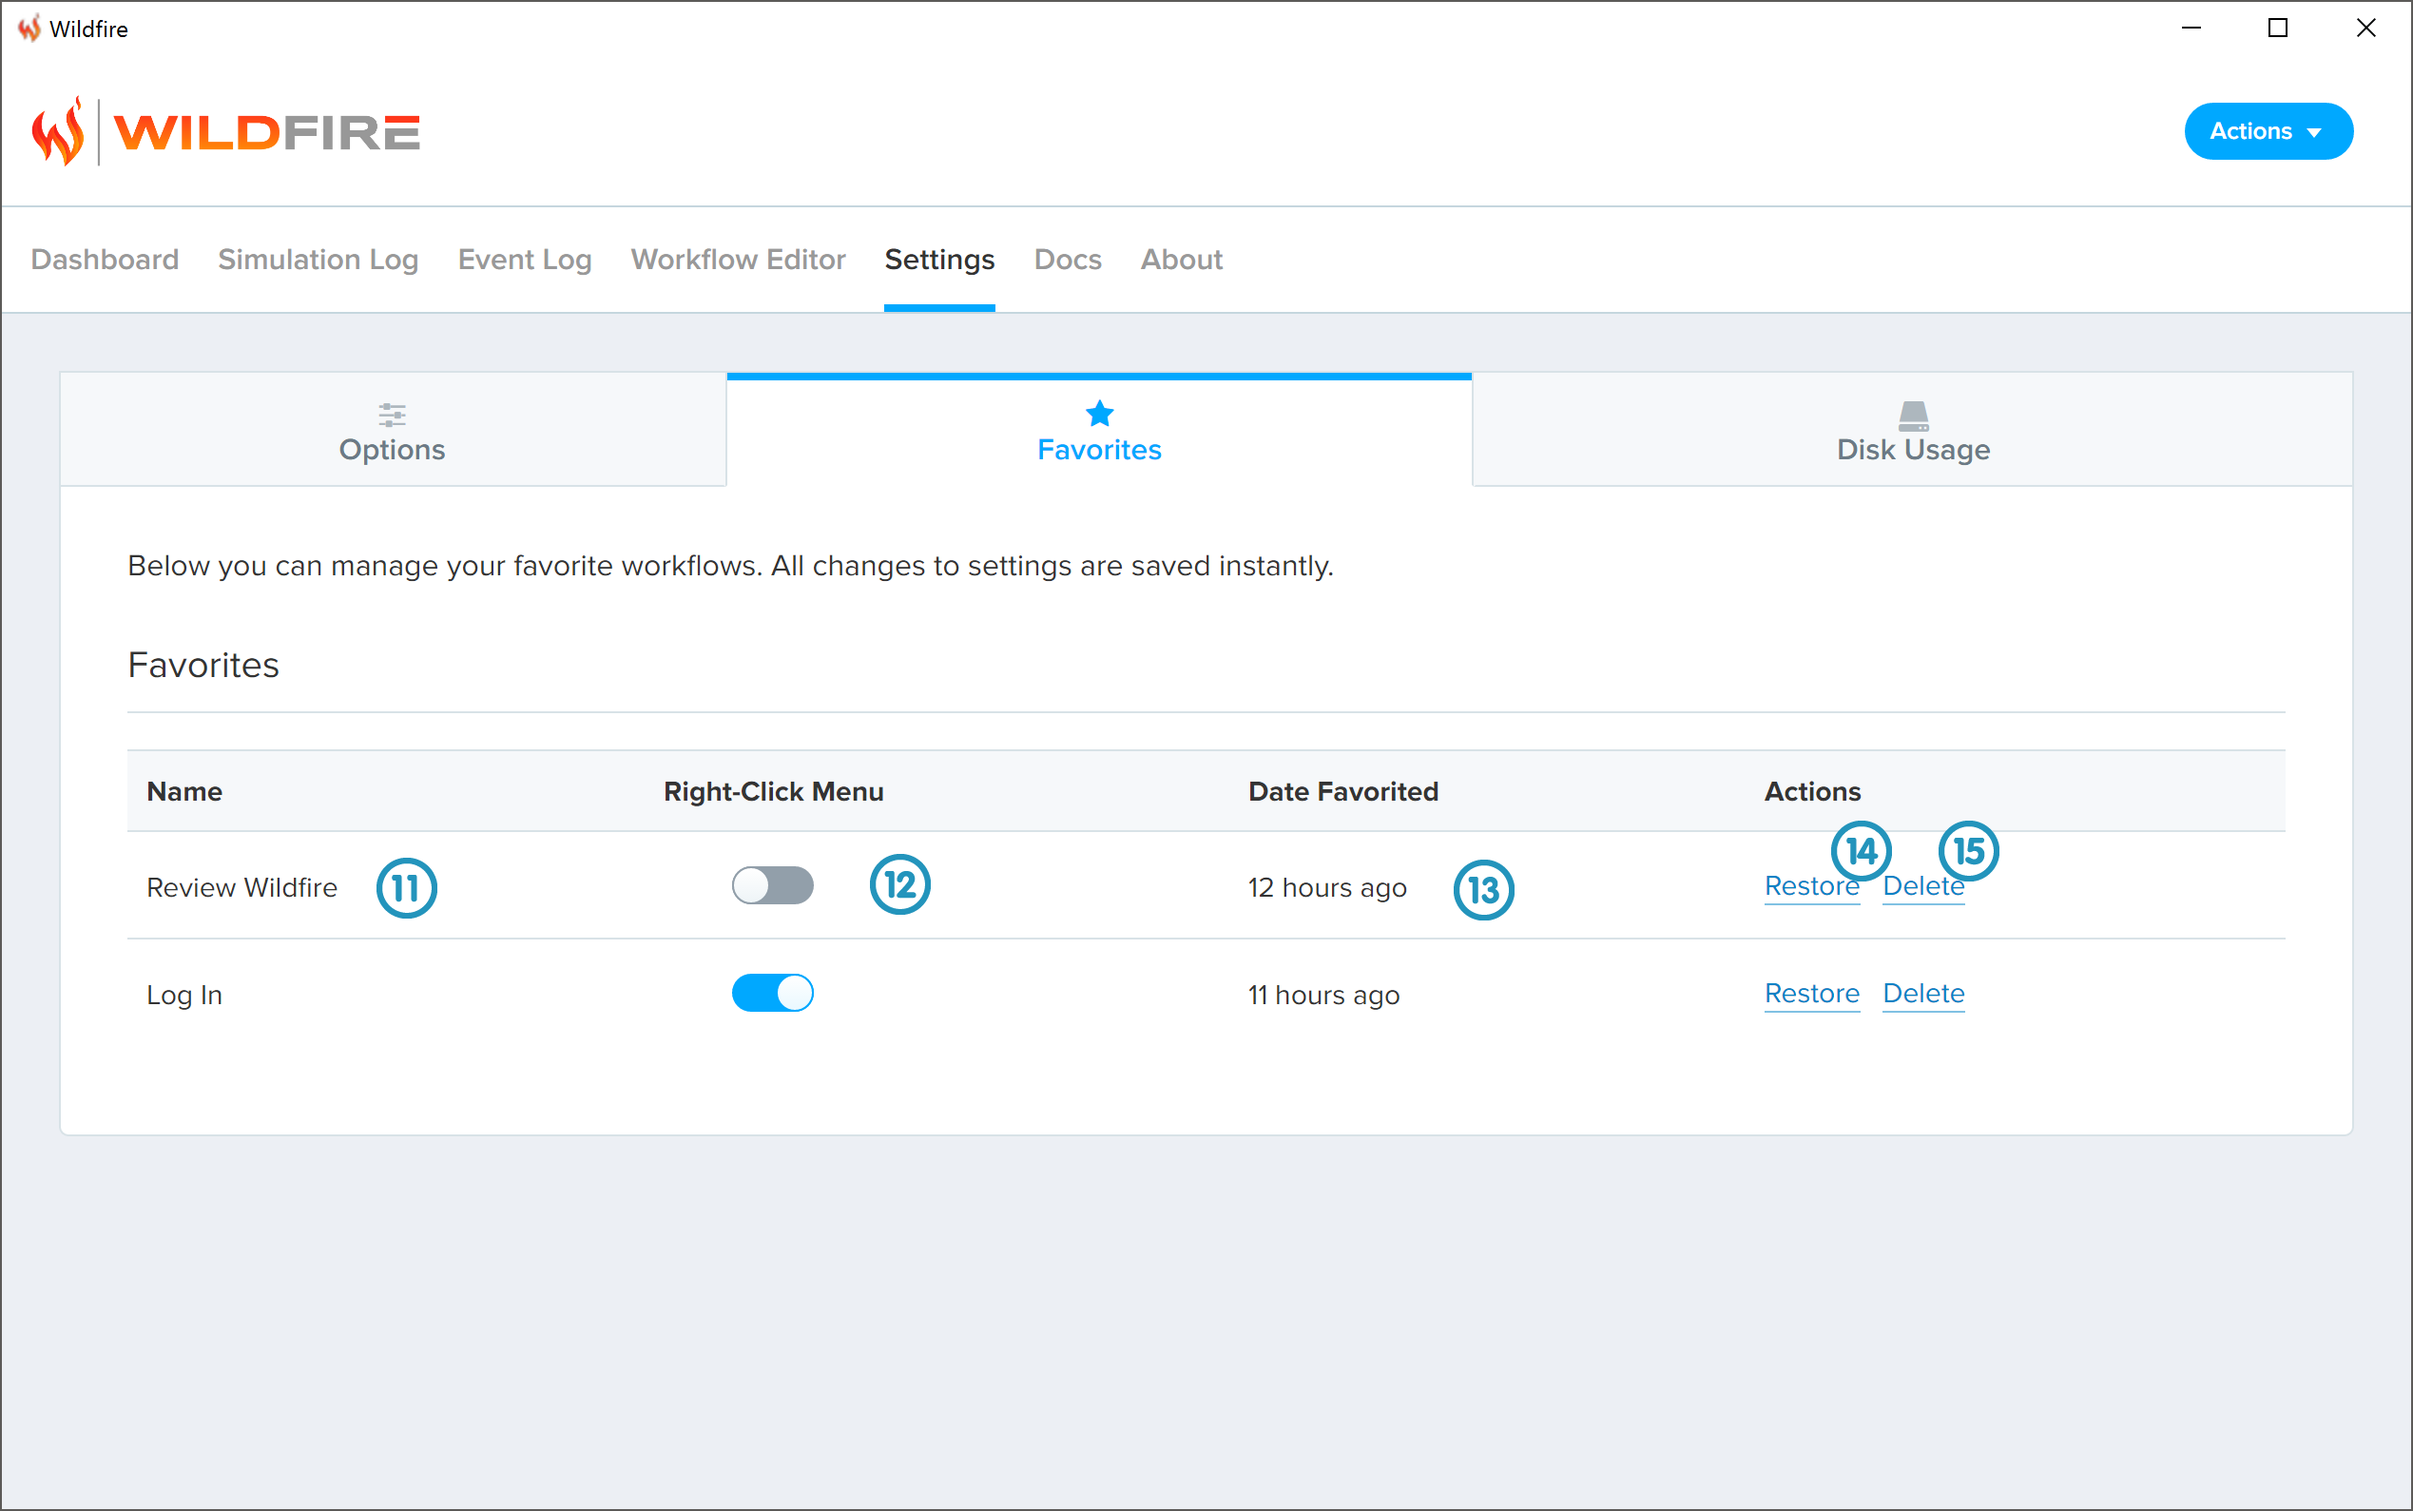
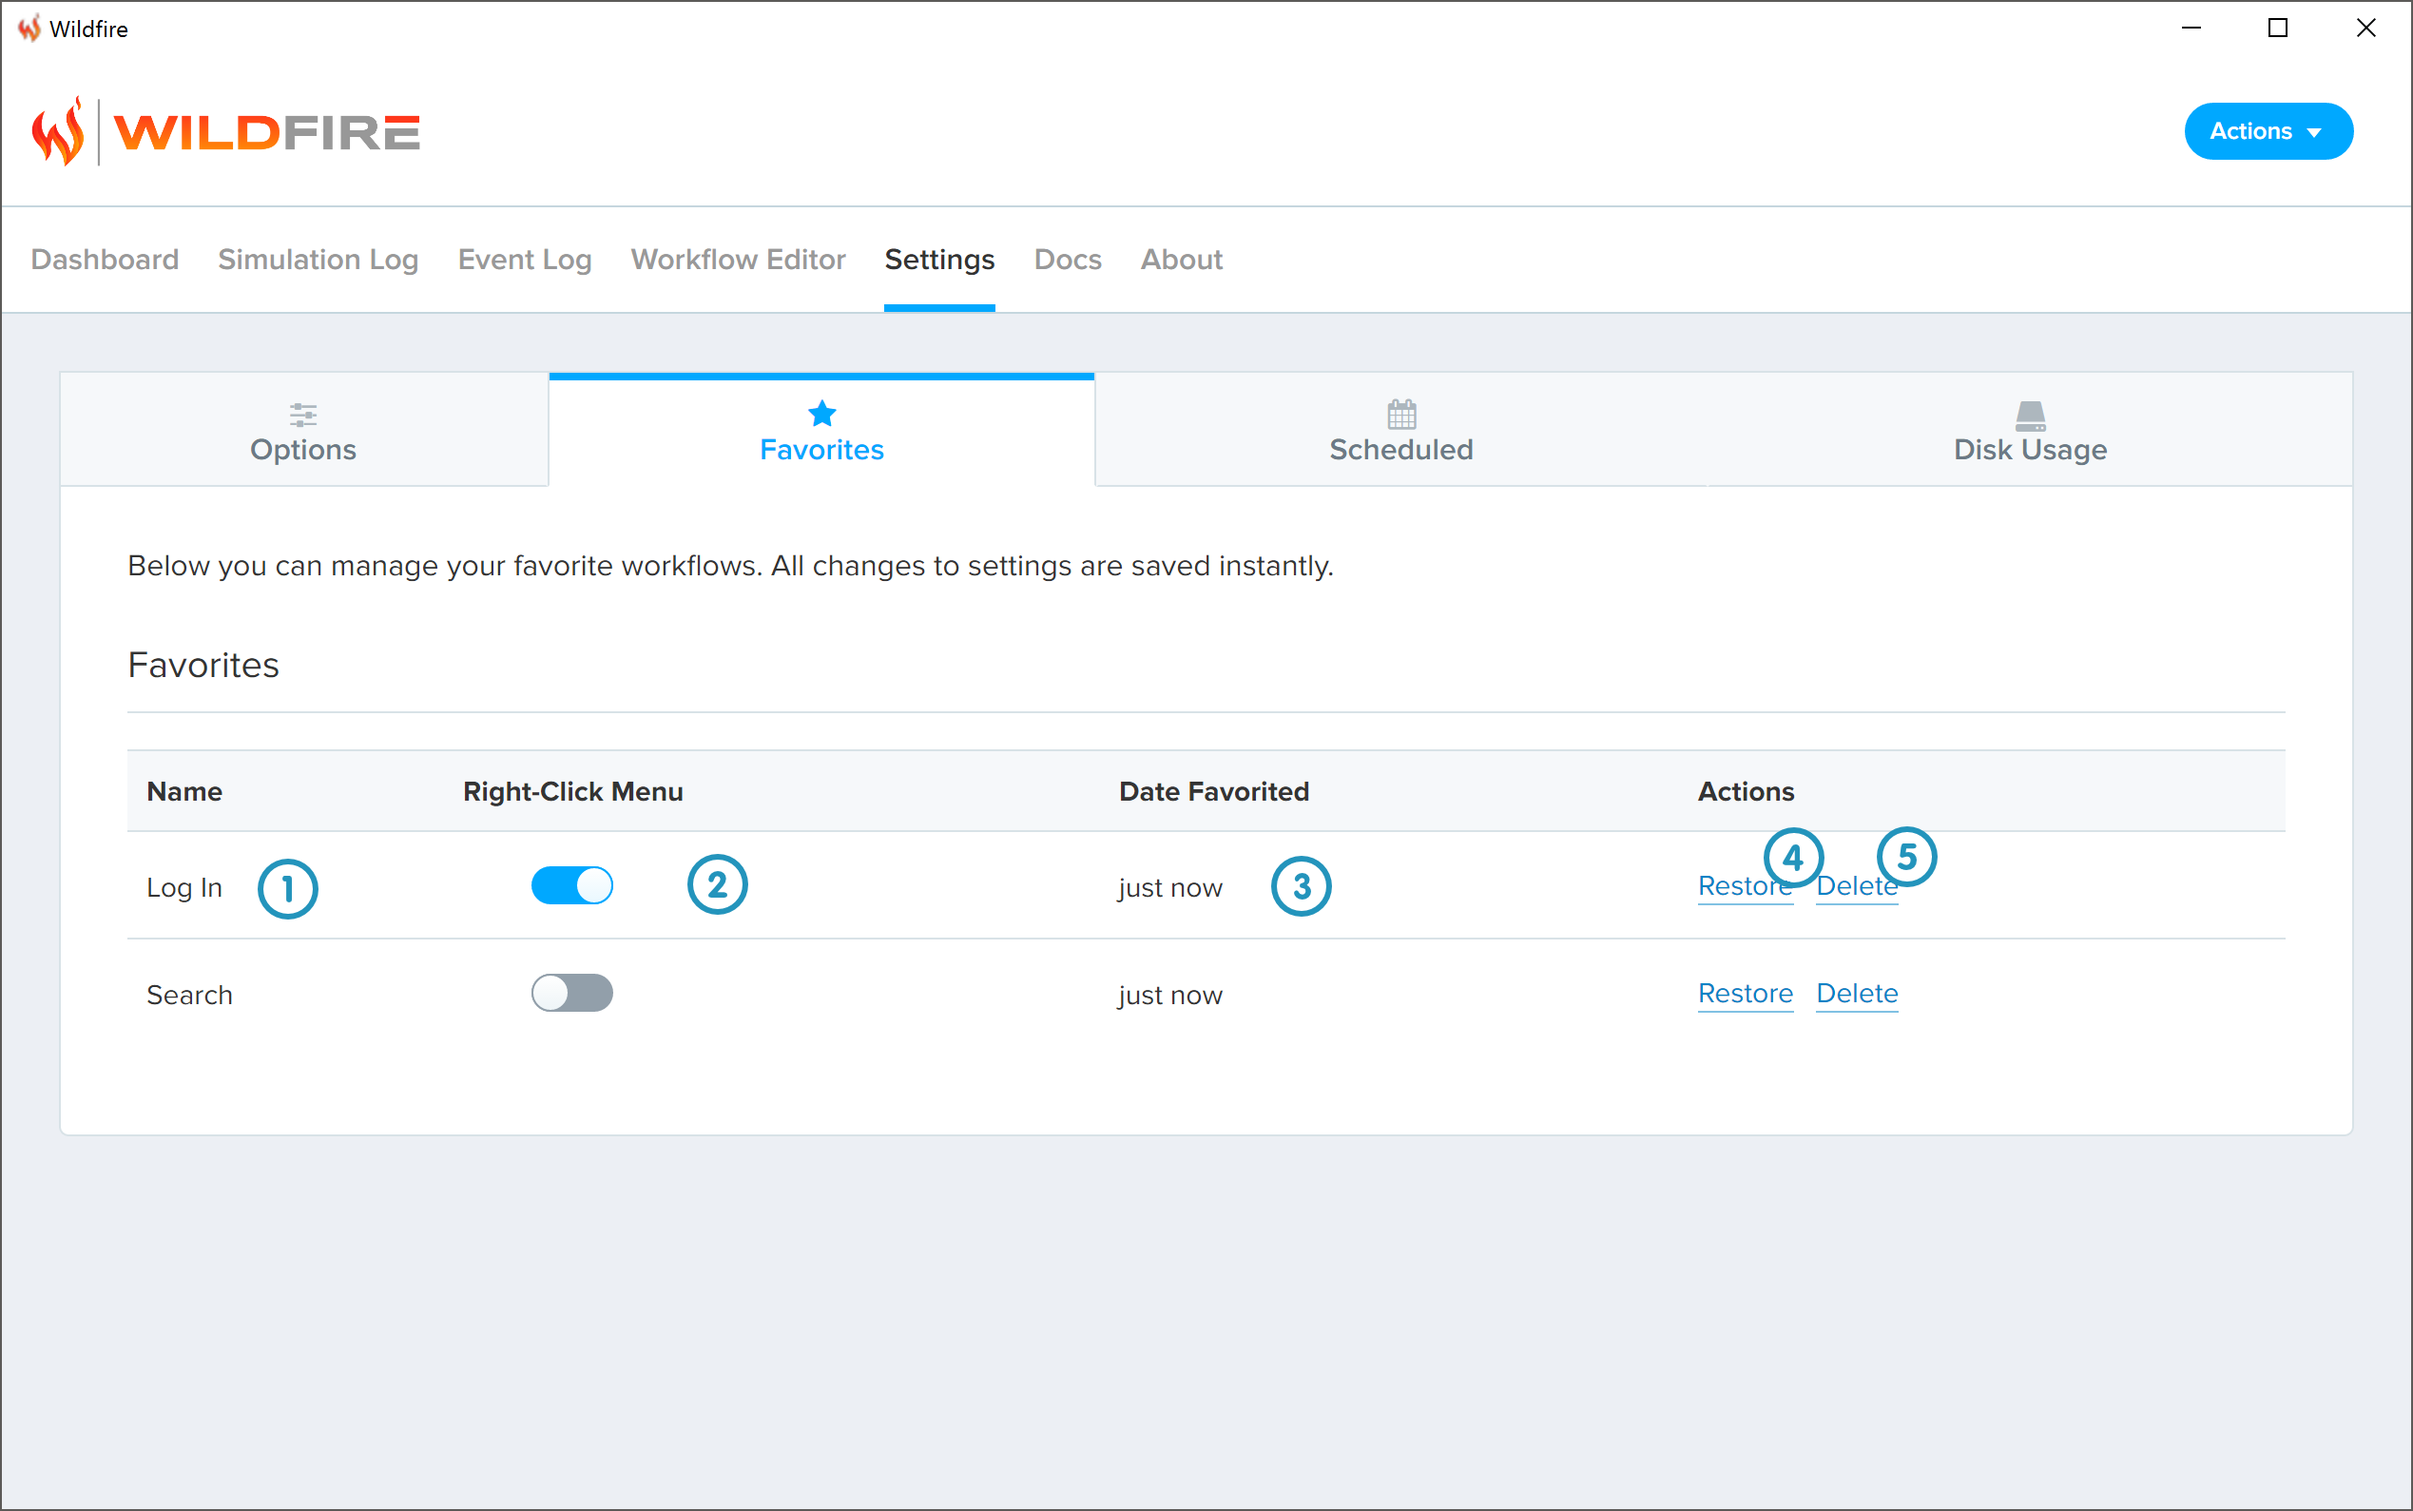
1.1.2 Schedules - Complete

diff --git a/docs/settings.html b/docs/settings.html
@@ -176,13 +176,14 @@
                 <h2>Settings</h2>
                 <!--<p class="lead color-blue-grey">XXXXX</p>-->
                 <div class="documentation-header-by">
-                    Last Updated: January 15, 2017
+                    Last Updated: January 21, 2017
                 </div>
             </header>
             <div class="text-block text-block-typical">
                 <p style="margin-bottom: 2rem;">
                     The Settings area allows you to adjust the way Wildfire works.
                 </p>
+                <h3>Options Section</h3>
                 <h4>Components</h4>
                 <p style="padding-left: 4%;">
                     <strong>1.</strong>&nbsp;&nbsp;<a href="/docs/cloud_overview.html">Wildfire Cloud</a> account link status<br />
@@ -194,26 +195,50 @@
                     <strong>7.</strong>&nbsp;&nbsp;Run simulations in an incognito window (you must enable incognito access for Wildfire)<br />
                     <strong>8.</strong>&nbsp;&nbsp;Enables the right-click menu globally<br />
                     <strong>9.</strong>&nbsp;&nbsp;List of events that should be recorded in the Event Log<br />
-                    <strong>10.</strong>&nbsp;&nbsp;List of events that should be simulated if scheduled (other events will simply be skipped)<br />
-                    <strong>11.</strong>&nbsp;&nbsp;Name of your favorited workflow<br />
-                    <strong>12.</strong>&nbsp;&nbsp;Switch to enable the favorited workflow in the right-click menu<br />
-                    <strong>13.</strong>&nbsp;&nbsp;When the workflow was favorited<br />
-                    <strong>14.</strong>&nbsp;&nbsp;Link to restore the workflow to the Workflow Editor and Event Log<br />
-                    <strong>15.</strong>&nbsp;&nbsp;Link to remove the favorited workflow<br />
-                    <strong>16.</strong>&nbsp;The disk usage of the different types of Wildfire data<br />
-                    <strong>17.</strong>&nbsp;Clears all simulations from the Simulation Log<br />
-                    <strong>18.</strong>&nbsp;Clears all Event Log entries and the current workflow in the Workflow Editor<br />
-                    <strong>19.</strong>&nbsp;Clears all saved Favorites<br />
-                    <strong>20.</strong>&nbsp;Removes all Wildfire data and resets the extension (this will close the Wildfire window)
+                    <strong>10.</strong>&nbsp;&nbsp;List of events that should be simulated if scheduled (other events will simply be skipped)
                 </p>
                 <p>
                     <img src="/docs/settings_1_x.png" style="padding-top: 8px; padding-bottom: 8px; width: 100%;" />
                 </p>
+                <br />
+                <h3>Favorites Section</h3>
+                <h4>Components</h4>
+                <p style="padding-left: 4%;">
+                    <strong>1.</strong>&nbsp;&nbsp;Name of your favorited workflow<br />
+                    <strong>2.</strong>&nbsp;&nbsp;Switch to enable the favorited workflow in the right-click menu<br />
+                    <strong>3.</strong>&nbsp;&nbsp;When the workflow was favorited<br />
+                    <strong>4.</strong>&nbsp;&nbsp;Link to restore the workflow to the Workflow Editor and Event Log<br />
+                    <strong>5.</strong>&nbsp;&nbsp;Link to remove the favorited workflow
+                </p>
                 <p>
                     <img src="/docs/settings_2_x.png" style="padding-top: 8px; padding-bottom: 8px; width: 100%;" />
                 </p>
+                <br />
+                <h3>Scheduled Section</h3>
+                <h4>Components</h4>
+                <p style="padding-left: 4%;">
+                    <strong>1.</strong>&nbsp;&nbsp;Name of your workflow to be run<br />
+                    <strong>2.</strong>&nbsp;&nbsp;The scheduled time when the workflow should be first run<br />
+                    <strong>3.</strong>&nbsp;&nbsp;The frequency in which the workflow will run after the first run<br />
+                    <strong>4.</strong>&nbsp;&nbsp;Where the workflow will be run from (currently, this option cannot be changed)<br />
+                    <strong>5.</strong>&nbsp;&nbsp;Link to remove the scheduled workflow<br />
+                    <strong>6.</strong>&nbsp;&nbsp;Opens the window to add a new schedule
+                </p>
                 <p>
                     <img src="/docs/settings_3_x.png" style="padding-top: 8px; padding-bottom: 8px; width: 100%;" />
+                </p>
+                <br />
+                <h3>Disk Usage Section</h3>
+                <h4>Components</h4>
+                <p style="padding-left: 4%;">
+                    <strong>1.</strong>&nbsp;The disk usage of the different types of Wildfire data<br />
+                    <strong>2.</strong>&nbsp;Clears all simulations from the Simulation Log<br />
+                    <strong>3.</strong>&nbsp;Clears all Event Log entries and the current workflow in the Workflow Editor<br />
+                    <strong>4.</strong>&nbsp;Clears all saved Favorites<br />
+                    <strong>5.</strong>&nbsp;Removes all Wildfire data and resets the extension (this will close the Wildfire window)
+                </p>
+                <p>
+                    <img src="/docs/settings_4_x.png" style="padding-top: 8px; padding-bottom: 8px; width: 100%;" />
                 </p>
                 <hr style="margin-bottom: 1rem;" />
                 <p style="float: left;"><a href="/docs/workflow_editor.html">&#8656; Workflow Editor</a></p>

diff --git a/embedded.js b/embedded.js
@@ -1,3 +1,5 @@
+/* Wildfire - Embed Script */
+
 window.HTMLFormElement.prototype.wforigsubmit = window.HTMLFormElement.prototype.submit;
 window.HTMLFormElement.prototype.submit = function() {
     var event = new CustomEvent("wfSubmit", {
@@ -5,7 +7,5 @@ window.HTMLFormElement.prototype.submit = function() {
         cancelable: false
     });
     this.dispatchEvent(event);
-    //var formElement = this;
-    //setTimeout(function(){formElement.wforigsubmit()},3000);
     this.wforigsubmit();
 }

diff --git a/settings.html b/settings.html
@@ -547,6 +547,7 @@
                                                 <th>Workflow</th>
                                                 <th>Scheduled For</th>
                                                 <th>Repeat</th>
+                                                <th>Run On</th>
                                                 <th>Actions</th>
                                             </tr>
                                         </thead>

diff --git a/settings.js b/settings.js
@@ -549,6 +549,7 @@ function populateScheduledTable() {
                 "    <td>" + workflowname + "</td>" +
                 "    <td>" + schDate + "</td>" +
                 "    <td>" + repeat + "</td>" +
+                "    <td>Local Machine</td>" +
                 "    <td>" +
                 "        <a href=\"#\" id=\"deleteschedule" + (i+1) + "\">Delete</a>" +
                 "    </td>" +
